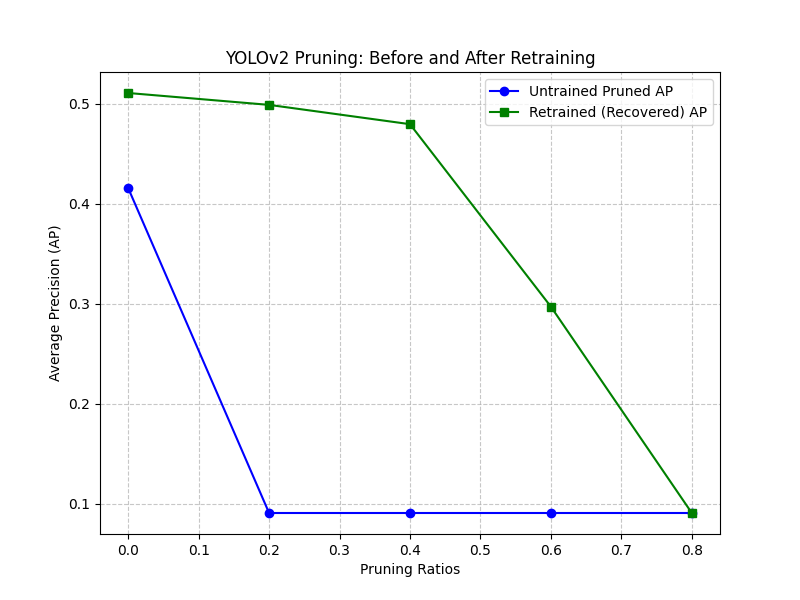
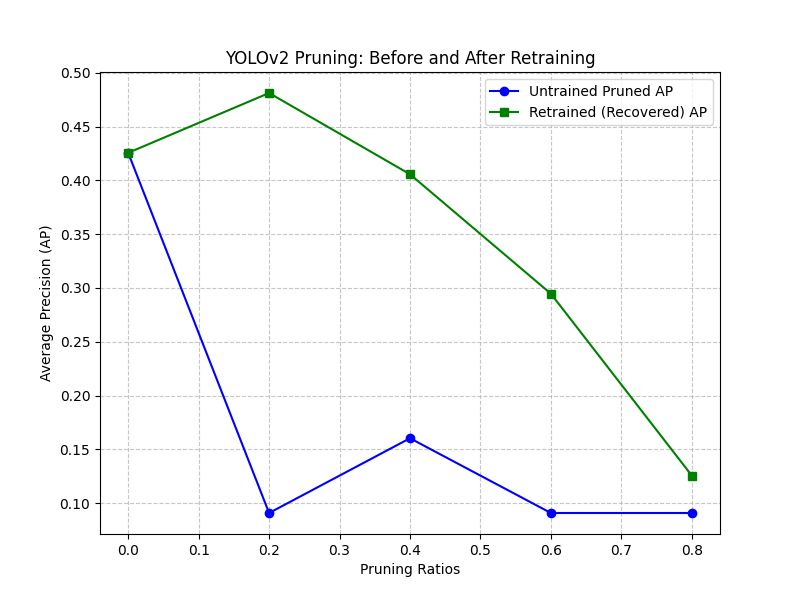
Implemented incremental pruning

diff --git a/pruning.py b/pruning.py
@@ -8,7 +8,7 @@ import numpy as np
 import time
 
 from utils.dataloader import VOCDataLoader, VOCDataLoaderPerson
-from prunedtinyyolov2 import PrunedTinyYoloV2
+from tinyyolov2 import TinyYoloV2
 from utils.loss import YoloLoss
 
 from utils.ap import precision_recall_levels, ap, display_roc
@@ -64,7 +64,7 @@ def densify_state_dict(state_dict: Dict) -> Dict:
     return state_dict
 
 
-def evaluate_yolo_ap(model: PrunedTinyYoloV2, testloader: DataLoader, device: str, samples: int) -> float:
+def calculate_ap(model: TinyYoloV2, testloader: DataLoader, device: str, samples: int) -> float:
 
     test_precision = []
     test_recall = []
@@ -72,13 +72,23 @@ def evaluate_yolo_ap(model: PrunedTinyYoloV2, testloader: DataLoader, device: st
     model.eval()
 
     with torch.no_grad():
-        for idx, (inputs, targets) in tqdm.tqdm(enumerate(testloader), total=samples):
+        for idx, (inputs, targets) in tqdm.tqdm(enumerate(testloader), total=samples, desc="Evaluating AP"):
             
             inputs, targets = inputs.to(device), targets.to(device)
             outputs = model(inputs, yolo=True)
             
             #The right threshold values can be adjusted for the target application
             outputs = filter_boxes(outputs, 0.25)
+
+            # Select the top 100 boxes if we have too many boxes
+            # This is needed to avoid inference degradation when the network is heavily pruned, 
+            # as it will start detecting random noise as objects and spawn too many boxes
+            if len(outputs[0]) > 50:
+                # Sort descending by confidence score
+                outputs[0] = outputs[0][outputs[0][:, 4].argsort(descending=True)]
+                # Slice the top 100
+                outputs[0] = outputs[0][:50]
+
             outputs = nms(outputs, 0.5)
             
             precision, recall = precision_recall_levels(targets[0], outputs[0])
@@ -88,20 +98,63 @@ def evaluate_yolo_ap(model: PrunedTinyYoloV2, testloader: DataLoader, device: st
                 break
             
     return ap(test_precision, test_recall)
+
+def calculate_loss(model: TinyYoloV2, criterion: YoloLoss, testloader: DataLoader, device: str, samples: int) -> float:
+
+    model.eval()
+    total_val_loss = 0.0
     
+    with torch.no_grad():
+        # 1. Calculate Validation Loss (Requires raw outputs)
+        for idx, (inputs, targets) in tqdm.tqdm(enumerate(testloader), total=samples, desc="Evaluating Loss"):
+            inputs, targets = inputs.to(device), targets.to(device)
+            outputs_raw = model(inputs, yolo=False)
+            loss, _ = criterion(outputs_raw, targets)
+            total_val_loss += loss.item()
+            
+        return total_val_loss / len(testloader)
+
+
+def measure_inference_speed(model: TinyYoloV2, device: str, num_runs: int = 2000):
+    # Measure inference speed
+    # We use dummy values since it skips reading from disc, which makes performance metrics more accurate
+    # The inference result itself does not matter here
+    # 416 x 416 is the dataset image size
+    dummy_input = torch.randn(1, 3, 416, 416).to(device)
+
+    with torch.no_grad():
+        for _ in range(10):  # Warm-up phase
+            _ = model(dummy_input)
+
+    if device == 'cuda':
+        torch.cuda.synchronize()
+    start_time = time.time()
+
+    with torch.no_grad():
+        for _ in range(num_runs):
+            _ = model(dummy_input)
+
+    if device == 'cuda':
+        torch.cuda.synchronize()
+    end_time = time.time()
+
+    fps = num_runs / (end_time - start_time)
+
+    tqdm.tqdm.write(f"\nFPS: {fps:.2f}")
+    
+    return fps 
 
 
 def main():
 
-    NUM_TEST_SAMPLES = 350
-    NUM_TRAIN_SAMPLES = 350
     NUM_EPOCHS = 20
     NUM_PRUNING_RATIOS = 5
 
     DEVICE = 'cuda'
 
-    loader = VOCDataLoaderPerson(train=True, batch_size=128)
-    loader_test = VOCDataLoaderPerson(train=False, batch_size=1)
+    loader_train = VOCDataLoaderPerson(split="train", batch_size=196)
+    loader_test = VOCDataLoaderPerson(split="test", batch_size=1)
+    loader_val = VOCDataLoaderPerson(split="val", batch_size=1)
 
     ratios = np.linspace(0, 0.8, NUM_PRUNING_RATIOS)
 
@@ -110,15 +163,32 @@ def main():
 
     ap_untrained = []
     ap_retrained = []
+    loss_untrained = []
+    loss_retrained = []
     fps_list = []
 
-    best_ap: int = 0
+    best_score: float = 0.0
+    baseline_fps: float = 1.0  # Placeholder to prevent division errors
     best_state_dict: dict = {}
 
-    for idx, ratio in tqdm.tqdm(enumerate(ratios), total=len(ratios), desc="Pruning ratios"):
-        
-        current_sd = copy.deepcopy(state_dict)
-        pruned_sd = l1_structured_pruning(current_sd, ratio)
+    current_sd = copy.deepcopy(state_dict)
+    current_pruned_ratio: float = 0.0
+
+    for idx, target_ratio in tqdm.tqdm(enumerate(ratios), total=len(ratios), desc="Pruning ratios"):
+
+        # variables to save best weights for current ratio
+        lowest_ratio_loss: float = float('inf')
+        best_ratio_state_dict: dict = {}
+
+        # calculate current pruning ratio
+        if target_ratio == 0.0:
+            relative_ratio = 0.0
+        else:
+            relative_ratio = (target_ratio - current_pruned_ratio) / (1.0 - current_pruned_ratio)
+            
+        tqdm.tqdm.write(f"\nTarget Sparsity: {target_ratio:.2f} | Pruning {relative_ratio*100:.1f}% of remaining channels")
+
+        pruned_sd = l1_structured_pruning(current_sd, relative_ratio)
         sd = densify_state_dict(pruned_sd)
 
         new_channels = [
@@ -132,76 +202,114 @@ def main():
             sd['conv8.weight'].shape[0]
         ]
 
-        print(new_channels)
-
         # make instance with 20 classes as output
         # We use PrunedTinyYolo as channels will change after densifying the state dict
-        net = PrunedTinyYoloV2(num_classes=1, channels=new_channels)
+        net = TinyYoloV2(num_classes=1, channels=new_channels)
         net.load_state_dict(sd)
         net = net.to(DEVICE)
+
+        # Prepare retraining loop 
+        criterion_train = YoloLoss(anchors=net.anchors)
+
+        criterion_eval = YoloLoss(anchors=net.anchors)
+        criterion_eval.seen = 999999
+
+        optimizer = torch.optim.Adam(net.parameters(), lr=1e-5)    #type: ignore
+
         net.eval()
 
         # test untrained performance after pruning 
-        ap_untrained.append(evaluate_yolo_ap(model=net, testloader=loader_test, device=DEVICE, samples=NUM_TEST_SAMPLES))
+        ap_untrained.append(calculate_ap(model=net, testloader=loader_test, device=DEVICE, samples=len(loader_test)))
+        loss_untrained.append(calculate_loss(net, criterion_eval, loader_test, DEVICE, len(loader_test)))
 
-        # Prepare retraining loop 
-        criterion = YoloLoss(anchors=net.anchors)
-        optimizer = torch.optim.Adam(net.parameters(), lr=1e-5)    #type: ignore
+        if target_ratio == 0.0:
+            tqdm.tqdm.write("Ratio 0.0 detected. Skipping retraining to preserve baseline weights.")
+            # The retrained AP is exactly the same as the untrained AP
+            ap_retrained.append(ap_untrained[-1])
+            loss_retrained.append(loss_untrained[-1])
+            best_ratio_state_dict = copy.deepcopy(net.state_dict())
 
-        net.train()
+        else:
+            PATIENCE = 5
+            epochs_without_improve = 0
 
-        for epoch_n in range(NUM_EPOCHS):
-            for idx, (inputs, targets) in tqdm.tqdm(enumerate(loader), total=len(loader), desc="Retraining"):
+            for epoch_n in range(NUM_EPOCHS):
 
-                optimizer.zero_grad()
+                # TRAINING
+                net.train()
+                for idx, (inputs, targets) in tqdm.tqdm(enumerate(loader_train), total=len(loader_train), desc="Retraining"):
 
-                inputs, targets = inputs.to(DEVICE), targets.to(DEVICE)
+                    optimizer.zero_grad()
 
-                outputs = net(inputs, yolo=False)
-                loss,_ = criterion(outputs, targets)
-                loss.backward()
-                optimizer.step()
+                    inputs, targets = inputs.to(DEVICE), targets.to(DEVICE)
 
-        # test retrained performance after epochs finish 
-        with torch.no_grad():
-            ap_retrained.append(evaluate_yolo_ap(net, loader_test, DEVICE, NUM_TRAIN_SAMPLES))
-
-        # save best performing ratio's state_dict
-        if ap_retrained[-1] > best_ap:
-            best_ap = ap_retrained[-1]
-            best_state_dict = copy.deepcopy(net.state_dict())
+                    outputs = net(inputs, yolo=False)
+                    loss,_ = criterion_train(outputs, targets)
+                    loss.backward()
+                    optimizer.step()
 
 
-        # Measure inference speed
-        # We use dummy values since it skips reading from disc, which makes performance metrics more accurate
-        # The inference result itself does not matter here
-        # 416 x 416 is the dataset image size
-        dummy_input = torch.randn(1, 3, 416, 416).to(DEVICE)
-        
-        with torch.no_grad():
-            for _ in range(10):  # Warm-up phase
-                _ = net(dummy_input)
+                # VALIDATION
+                net.eval()
+                with torch.no_grad():
+                    current_loss = calculate_loss(net, criterion_train, loader_val, DEVICE, len(loader_val))
 
-        if DEVICE == 'cuda':
-            torch.cuda.synchronize()
-        start_time = time.time()
+                tqdm.tqdm.write(f"Epoch {epoch_n} | Validation Loss: {current_loss:.4f}")
 
-        num_runs = 100
-        with torch.no_grad():
-            for _ in range(num_runs):
-                _ = net(dummy_input)
+                if current_loss < lowest_ratio_loss:
+                    lowest_ratio_loss = current_loss
+                    best_ratio_state_dict = copy.deepcopy(net.state_dict())
+                    epochs_without_improve = 0
 
-        if DEVICE == 'cuda':
-            torch.cuda.synchronize()
-        end_time = time.time()
+                else:
+                    # No improvement this epoch
+                    epochs_without_improve += 1
 
-        fps = num_runs / (end_time - start_time)
-        fps_list.append(fps)
-        print(f"\nRatio {ratio:.2f} -> Base AP: {ap_untrained[-1]:.4f} | FPS: {fps:.2f}")
+                if epochs_without_improve >= PATIENCE:
+                    tqdm.tqdm.write(f"Early stopping triggered! Validation Loss hasn't improved for {PATIENCE} epochs.")
+                    tqdm.tqdm.write(f"Breaking out of training at epoch {epoch_n}. Lowest Val Loss was: {lowest_ratio_loss:.4f}")
+                    break
 
+
+            # TESTING
+            # test retrained performance on test set after epochs finish
+
+            net.load_state_dict(best_ratio_state_dict)
+            net.eval()
+
+            with torch.no_grad():
+                ap_retrained.append(calculate_ap(net, loader_test, DEVICE, len(loader_test)))
+                tqdm.tqdm.write(f"Final Test AP for Ratio {target_ratio:.2f}: {ap_retrained[-1]:.4f}")
+
+                loss_retrained.append(calculate_loss(net, criterion_eval, loader_test, DEVICE, len(loader_test)))
+                tqdm.tqdm.write(f"Final Test Loss for Ratio {target_ratio:.2f}: {loss_retrained[-1]:.4f}")
+
+
+            # update state dict for next pruning ratio loop
+            current_sd = copy.deepcopy(best_ratio_state_dict)
+            current_pruned_ratio = target_ratio
+
+        fps_list.append(measure_inference_speed(net, DEVICE))
+
+        test_loss = loss_retrained[-1]
+
+        if target_ratio == 0.0:
+            baseline_fps = fps_list[-1]
+            current_score = test_loss
+        else:
+            speedup_factor = fps_list[-1] / baseline_fps
+            # Lower score is better!
+            current_score = test_loss / speedup_factor
+
+        tqdm.tqdm.write(f"Loss Efficiency Score: {current_score:.4f}")
+
+        # select best model based on efficiency score
+        if current_score < best_score:
+            print(f"*** New best model! Score increased to {current_score:.4f} from {best_score:.4f} ***")
+            best_score = current_score
+            best_state_dict = copy.deepcopy(best_ratio_state_dict)
 
     # Export best model in onnx format
-
     new_channels = [
         best_state_dict['conv1.weight'].shape[0],
         best_state_dict['conv2.weight'].shape[0],
@@ -213,7 +321,7 @@ def main():
         best_state_dict['conv8.weight'].shape[0]
     ]
 
-    best_net = PrunedTinyYoloV2(num_classes=1, channels=new_channels)
+    best_net = TinyYoloV2(num_classes=1, channels=new_channels)
     best_net.load_state_dict(best_state_dict)
     best_net.to(DEVICE)
     best_net.eval()
@@ -250,29 +358,42 @@ def main():
     plt.title('YOLOv2 Pruning: Before and After Retraining')
     plt.legend()
     plt.grid(True, linestyle='--', alpha=0.7)
-    plt.savefig('accuracy_recovery.png')
+    plt.savefig('results/accuracy_recovery.png')
     plt.close()
     print("Graph successfully saved as accuracy_recovery.png!")
 
-    # Inference time over loss plot
+
     inference_time_ms = [1000.0 / f for f in fps_list]
 
+    # Pruning Ratio vs. Inference Time
     plt.figure(figsize=(8, 6))
-    plt.plot(ap_retrained, inference_time_ms, marker='o', linestyle='-', color='purple')
-    plt.xlabel('Metric (Retrained Average Precision)') 
+    plt.plot(ratios, inference_time_ms, marker='o', linestyle='-', color='blue')
+    plt.xlabel('Pruning Ratio') 
     plt.ylabel('Inference Time per Image (ms)')
-    plt.title('Performance Trade-off: Inference Time vs. Metric')
+    plt.title('Pruning Ratio vs. Inference Time')
     plt.grid(True, linestyle='--', alpha=0.7)
     
-    # Annotate points with their pruning ratio
-    for i, ratio in enumerate(ratios):
-        plt.annotate(f"{ratio:.2f}", 
-                     (ap_retrained[i], inference_time_ms[i]), 
-                     textcoords="offset points", 
-                     xytext=(0,10), 
-                     ha='center')
+    plt.savefig('results/ratio_vs_inference_time.png')
+    plt.close()
 
-    plt.savefig('inference_vs_metric.png')
+    # Pruning Ratio vs. Average Precision
+    plt.figure(figsize=(8, 6))
+    plt.plot(ratios, ap_retrained, marker='o', linestyle='-', color='green')
+    plt.xlabel('Pruning Ratio') 
+    plt.ylabel('Average Precision (Retrained)')
+    plt.title('Pruning Ratio vs. Average Precision')
+    plt.grid(True, linestyle='--', alpha=0.7)
+    
+    plt.savefig('results/ratio_vs_ap.png')
+    plt.close()
+
+    plt.figure(figsize=(8, 6))
+    plt.plot(ratios, loss_retrained, marker='o', linestyle='-', color='red')
+    plt.xlabel('Pruning Ratio') 
+    plt.ylabel('Test Loss')
+    plt.title('Pruning Ratio vs Test Loss')
+    plt.grid(True, linestyle='--', alpha=0.7)
+    plt.savefig('results/loss_train.png')
     plt.close()
 
 
